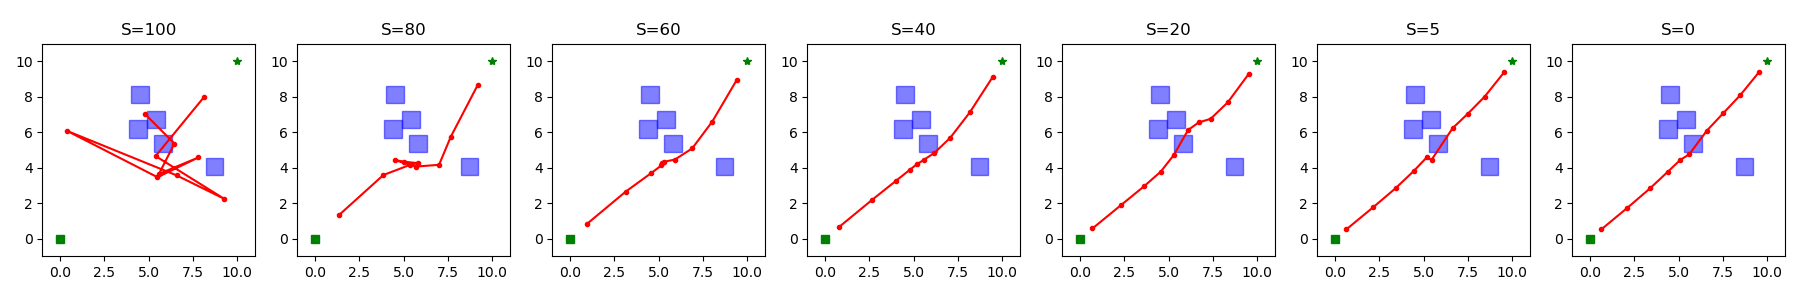
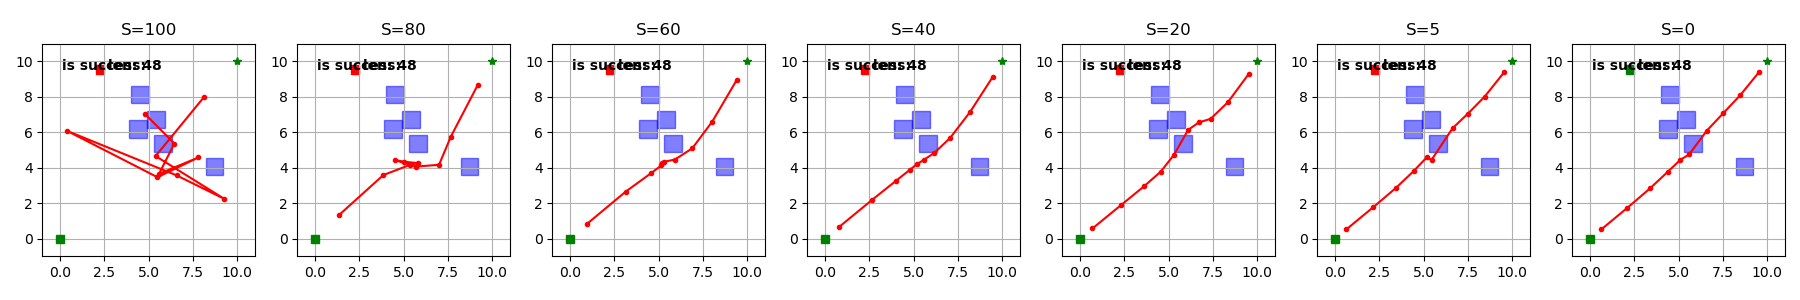
加上标题

diff --git a/paintmultifig.py b/paintmultifig.py
@@ -1,5 +1,6 @@
 import numpy as np
 import matplotlib.pyplot as plt
+import matplotlib.patches as patches
 
 # -----------------------
 # 1. 定义障碍物及辅助函数
@@ -169,7 +170,10 @@ def main():
 
     for idx, s in enumerate(steps_to_plot):
         ax = axes[idx]
+
         ax.set_title(f"S={s}")
+        # 设置标题在下方
+        ax.title.set_position([0.5, 10])
 
         # 绘制障碍物(蓝色方块)
         for obs in obstacles:
@@ -186,13 +190,23 @@ def main():
         # 绘制起点和终点
         ax.plot(start[0], start[1], 'gs', label='start')
         ax.plot(goal[0], goal[1], 'g*', label='goal')
+        # 画 `is success` 指示灯 (S=0 时绿色，其余为红色)
+        success_color = 'green' if s == 0 else 'red'
+
+        ax.text(0.1, 9.5, "is success:", fontsize=10, fontweight='bold')
+        ax.add_patch(patches.Rectangle((2, 9.3), 0.5, 0.5, color=success_color))
+
+        # 画 `len: 48`
+        ax.text(2.7, 9.5, "len: 48", fontsize=10, fontweight='bold')
 
         # 坐标范围
         ax.set_xlim(-1, 11)
         ax.set_ylim(-1, 11)
         ax.set_aspect('equal')
+        ax.grid(True)
 
     plt.tight_layout()
+    # plt.grid(True)
     plt.savefig("paintmultifig.png")
     plt.show()
 
